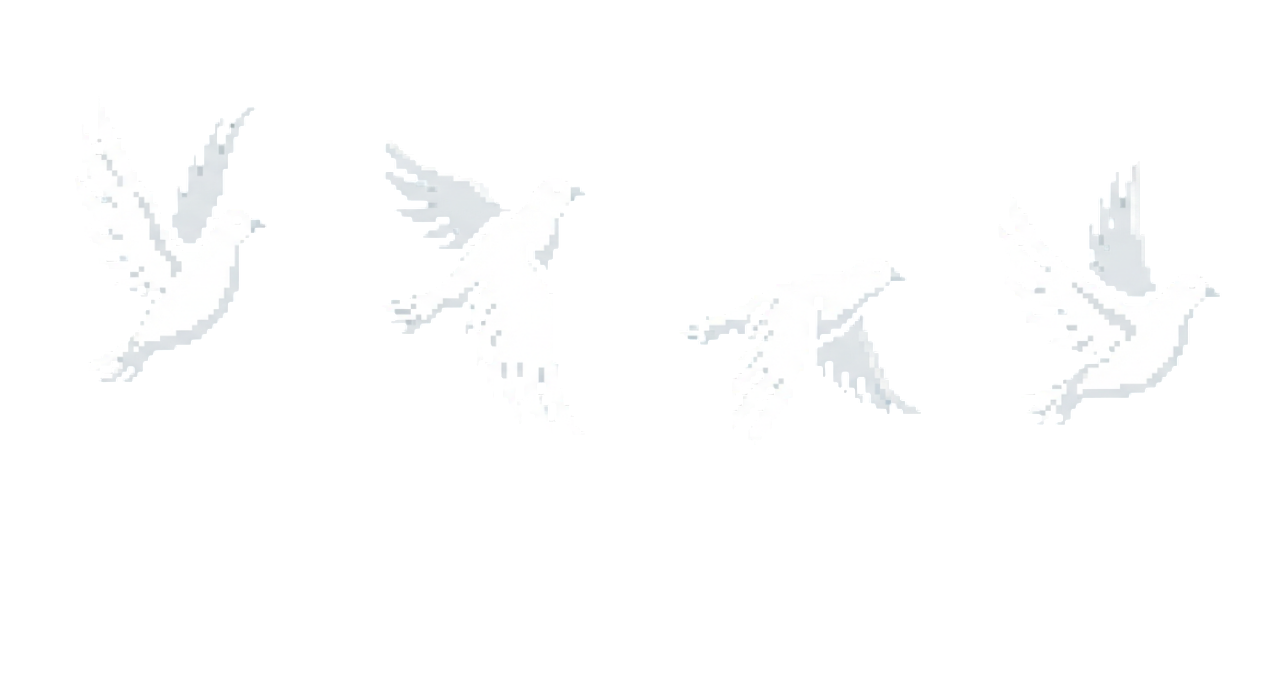
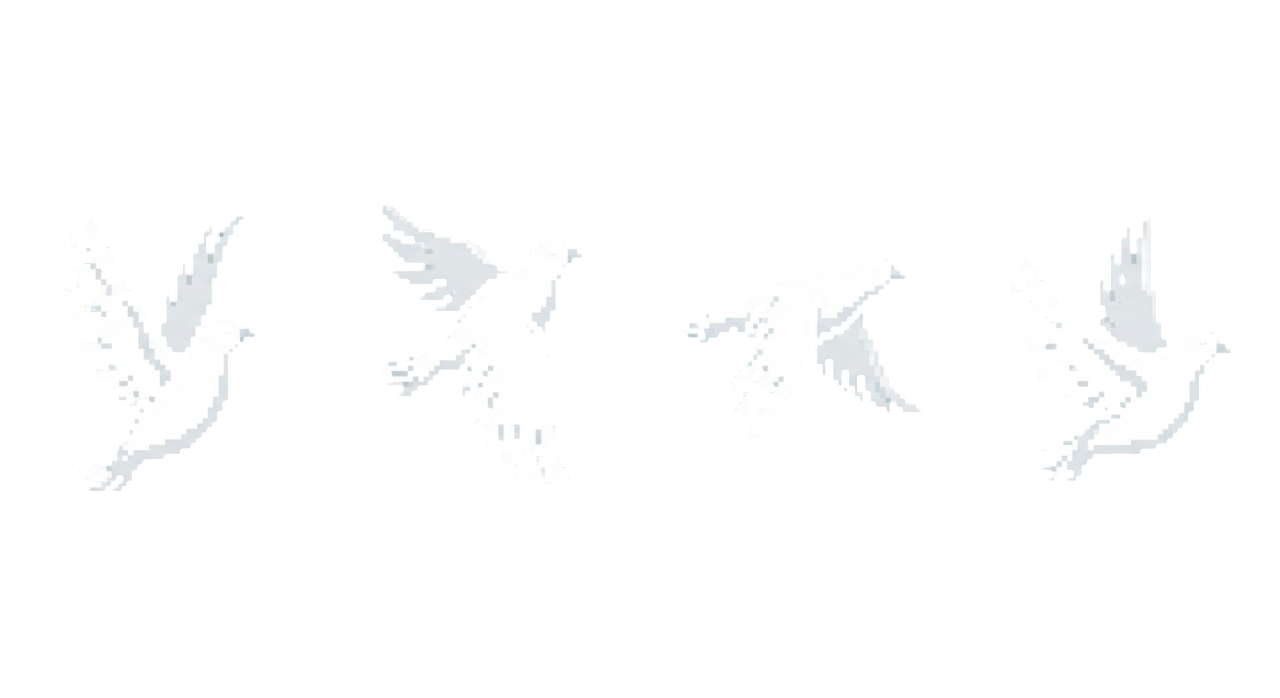
Create tools/center_sprites.py utility, center pigeons, and restore animations
- Add tools/center_sprites.py: universal Pillow script that finds
  *sheet*.png files, splits into frames, centers visible pixels
  within each frame, and reassembles the spritesheet
- Run on all 5 spritesheets (bird, hero, pigeon×3) — centers aligned
- pigeon_0: setFrame(0) for static pose, plays pigeon_fly only on takeoff
- pigeon_1/2: play idle animations at frameRate 4
- pigeon_fly frameRate raised to 6 for smoother flapping

https://claude.ai/code/session_01BQ56NV5B9H5z5vRZ53MYJw

diff --git a/frontend/src/scenes/PrologueScene.ts b/frontend/src/scenes/PrologueScene.ts
@@ -104,6 +104,7 @@ export class PrologueScene extends Phaser.Scene {
     const pigeon0 = this.add.sprite(116, 2421, "pigeon_0");
     pigeon0.setScale(0.15);
     pigeon0.setFlipX(true);
+    pigeon0.setFrame(0);
     pigeon0.setDepth(60);
 
     const pigeon1 = this.add.sprite(277, 2501, "pigeon_1");
@@ -190,19 +191,19 @@ export class PrologueScene extends Phaser.Scene {
     this.anims.create({
       key: "pigeon_fly",
       frames: this.anims.generateFrameNumbers("pigeon_0", { start: 0, end: 3 }),
-      frameRate: 5,
+      frameRate: 6,
       repeat: -1,
     });
     this.anims.create({
       key: "pigeon_idle_1",
       frames: this.anims.generateFrameNumbers("pigeon_1", { start: 0, end: 3 }),
-      frameRate: 2,
+      frameRate: 4,
       repeat: -1,
     });
     this.anims.create({
       key: "pigeon_idle_2",
       frames: this.anims.generateFrameNumbers("pigeon_2", { start: 0, end: 3 }),
-      frameRate: 2,
+      frameRate: 4,
       repeat: -1,
     });
   }

diff --git a/tools/center_sprites.py b/tools/center_sprites.py
@@ -1,0 +1,109 @@
+#!/usr/bin/env python3
+"""
+Утилита для центровки кадров в горизонтальных спрайт-листах.
+
+Использование:
+  python tools/center_sprites.py                        # по умолчанию: папка assets/images, 4 кадра
+  python tools/center_sprites.py --path путь/к/папке    # другая папка
+  python tools/center_sprites.py --frames 6             # другое кол-во кадров
+
+Что делает:
+  1. Находит все PNG-файлы, содержащие "sheet" в имени.
+  2. Разрезает каждый на N кадров (горизонтально).
+  3. Вычисляет bounding box непрозрачных пикселей в каждом кадре.
+  4. Центрирует содержимое в кадре того же размера.
+  5. Склеивает обратно и перезаписывает исходный файл.
+
+Требования: pip install Pillow
+"""
+
+import argparse
+import os
+import sys
+from pathlib import Path
+
+from PIL import Image
+
+
+def center_frame(frame: Image.Image) -> Image.Image:
+    """Центрирует видимые пиксели кадра относительно его размеров."""
+    bbox = frame.getbbox()
+    if bbox is None:
+        return frame.copy()
+
+    cropped = frame.crop(bbox)
+    cw, ch = cropped.size
+    fw, fh = frame.size
+
+    new_frame = Image.new("RGBA", (fw, fh), (0, 0, 0, 0))
+    paste_x = (fw - cw) // 2
+    paste_y = (fh - ch) // 2
+    new_frame.paste(cropped, (paste_x, paste_y))
+    return new_frame
+
+
+def process_spritesheet(filepath: Path, num_frames: int) -> bool:
+    """Обрабатывает один спрайт-лист. Возвращает True если файл изменён."""
+    img = Image.open(filepath).convert("RGBA")
+    w, h = img.size
+    frame_w = w // num_frames
+
+    if frame_w * num_frames != w:
+        print(f"  ПРОПУСК: {filepath.name} — ширина {w} не делится на {num_frames} кадров")
+        return False
+
+    centered_frames = []
+    for i in range(num_frames):
+        frame = img.crop((i * frame_w, 0, (i + 1) * frame_w, h))
+        centered = center_frame(frame)
+        centered_frames.append(centered)
+
+    result = Image.new("RGBA", (w, h), (0, 0, 0, 0))
+    for i, frame in enumerate(centered_frames):
+        result.paste(frame, (i * frame_w, 0))
+
+    result.save(filepath)
+    print(f"  OK: {filepath.name} ({num_frames} кадров, {frame_w}×{h} каждый)")
+    return True
+
+
+def main() -> None:
+    parser = argparse.ArgumentParser(description="Центровка кадров в спрайт-листах")
+    parser.add_argument(
+        "--path",
+        type=str,
+        default=os.path.join(os.path.dirname(__file__), "..", "frontend", "src", "assets", "images"),
+        help="Путь к папке с изображениями",
+    )
+    parser.add_argument(
+        "--frames",
+        type=int,
+        default=4,
+        help="Количество кадров в каждом спрайт-листе (по умолчанию 4)",
+    )
+    args = parser.parse_args()
+
+    images_dir = Path(args.path).resolve()
+    if not images_dir.is_dir():
+        print(f"Ошибка: папка не найдена: {images_dir}")
+        sys.exit(1)
+
+    sheets = sorted(images_dir.glob("*sheet*.png"))
+    if not sheets:
+        print(f"Спрайт-листы не найдены в {images_dir}")
+        sys.exit(0)
+
+    print(f"Папка: {images_dir}")
+    print(f"Кадров на лист: {args.frames}")
+    print(f"Найдено файлов: {len(sheets)}\n")
+
+    count = 0
+    for sheet in sheets:
+        if process_spritesheet(sheet, args.frames):
+            count += 1
+
+    print(f"\nОбработано: {count} из {len(sheets)} файлов")
+
+
+if __name__ == "__main__":
+    main()
